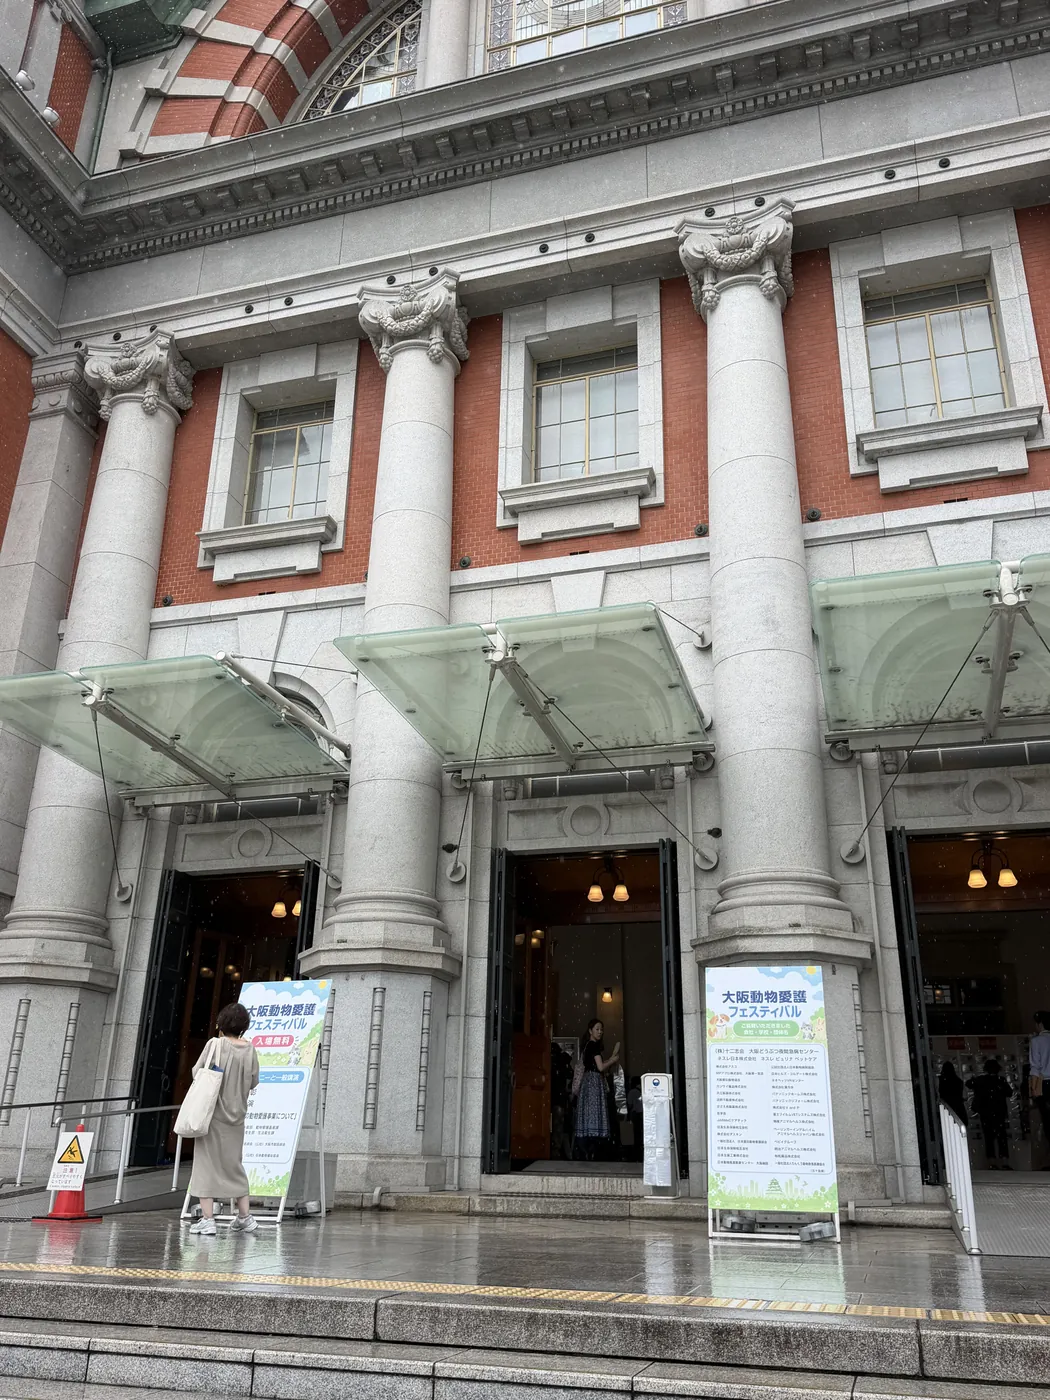
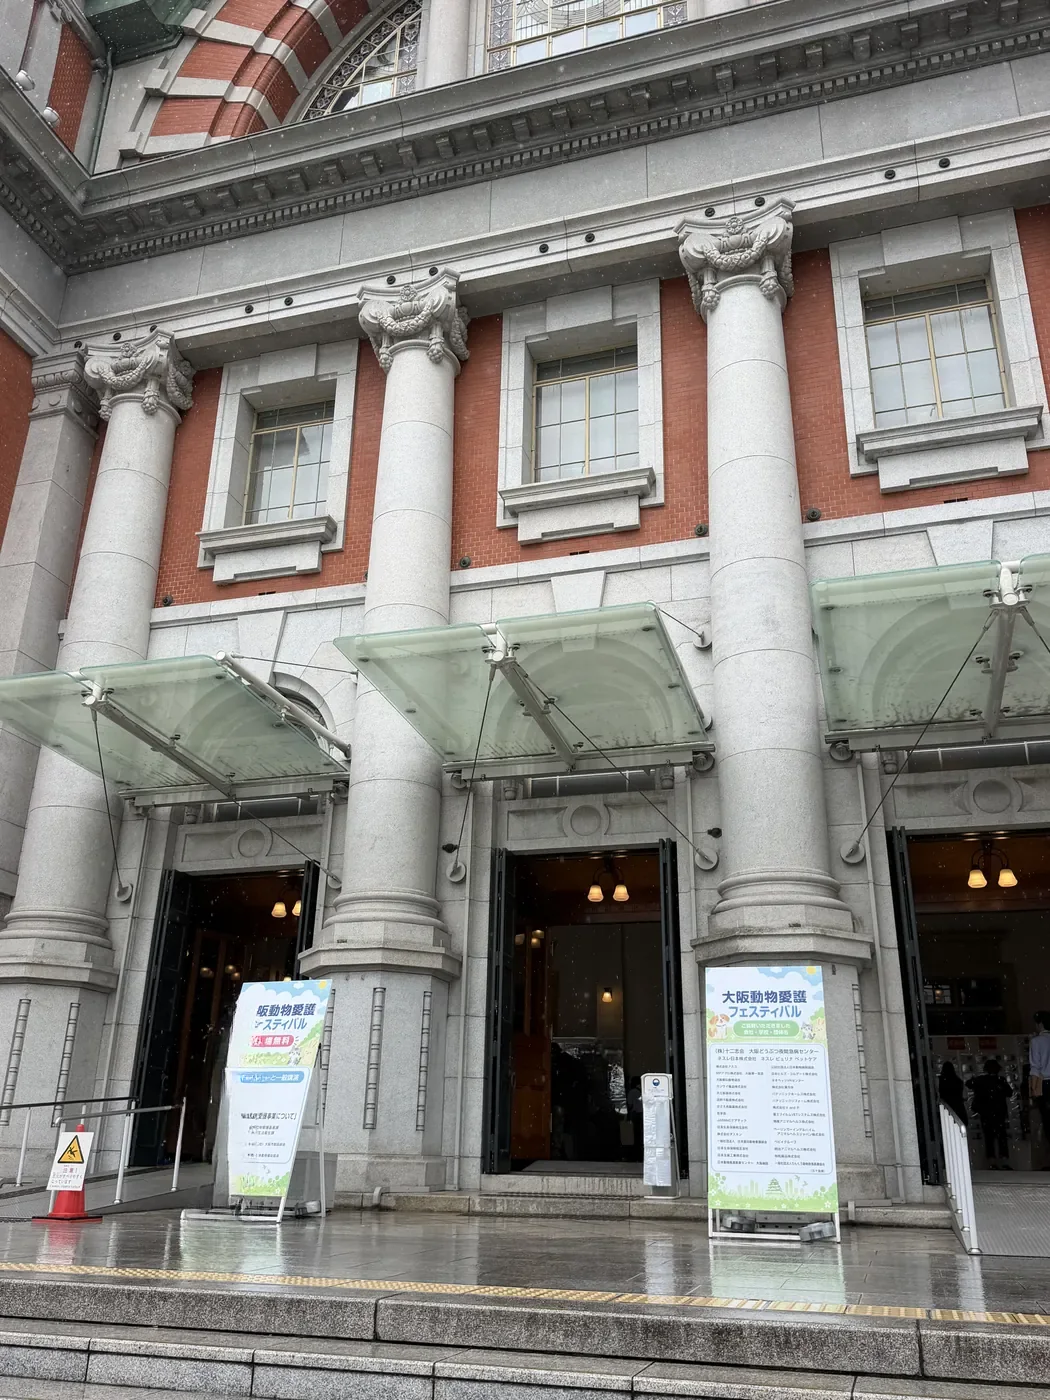
ロックス君：大阪市中央公会堂の写真から写り込んだ女性2人を消去（背景を補完）、吹き出しのメッセージを会場の「長寿動物表彰の基準」の写真に差し替え、rox.css を v=20260929a に更新
Claude-Session: https://claude.ai/code/session_01LhFHrB9qHNScZfbHDDCHGh

Changed region(s): [[0.1524, 0.7064, 0.2743, 0.9214], [0.5486, 0.7371, 0.6095, 0.8293]]

diff --git a/rox.html b/rox.html
@@ -13,7 +13,7 @@
   <link rel="preconnect" href="https://fonts.gstatic.com" crossorigin>
   <link rel="stylesheet" href="https://fonts.googleapis.com/css2?family=M+PLUS+Rounded+1c:wght@700;800&display=swap">
   <link rel="stylesheet" href="assets/tsugu.css?v=20260927b">
-  <link rel="stylesheet" href="assets/rox.css?v=20260926g">
+  <link rel="stylesheet" href="assets/rox.css?v=20260929a">
   <script>document.documentElement.classList.add('nx-js');</script>
   <!-- Google tag (gtag.js) -->
   <script async src="https://www.googletagmanager.com/gtag/js?id=G-R0BG9XQGE4"></script>
@@ -66,7 +66,10 @@
               <button class="rox-shot" type="button" data-lightbox aria-label="写真を拡大"><img src="assets/media/rox/img_2631.webp?v=2" width="1800" height="1013" alt="会場のスクリーンに映された、鈴木ロックスちゃん17歳の紹介" decoding="async"></button>
               <figcaption><time datetime="2026-09-26">2026.9.26</time>会場のスクリーンで紹介していただきました</figcaption>
             </figure>
-            <p class="rox-msg rox-msg--up">私達に愛しさを教えてくれてありがとう。<br>いつもあなたを大切に思っています。<small>会場で映されたメッセージ</small></p>
+            <figure class="rox-card rox-kijun" style="--r:1.5deg;--tape:rgba(255,196,61,.6);--c:var(--pop3)">
+              <button class="rox-shot" type="button" data-lightbox aria-label="写真を拡大"><img src="assets/media/rox/choju-kijun-2026.webp" width="1050" height="1403" alt="大阪動物愛護フェスティバルの会場スクリーン「長寿動物表彰の基準について」：大型犬13歳以上、中・小型犬16歳以上、ネコ18歳以上" loading="lazy" decoding="async"></button>
+              <figcaption><time datetime="2026-09-26">2026.9.26</time>長寿動物表彰の基準（中・小型犬は16歳以上）</figcaption>
+            </figure>
             <figure class="rox-tv">
               <video controls playsinline preload="metadata" poster="assets/media/rox/rox-17th-poster.webp" width="1280" height="720">
                 <source src="assets/media/rox/rox-17th-2026.mp4" type="video/mp4">
@@ -77,7 +80,7 @@
           </div>
           <div class="rox-side">
             <figure class="rox-card" style="--r:2deg;--tape:rgba(47,191,184,.55);--c:var(--pop4)">
-              <button class="rox-shot" type="button" data-lightbox aria-label="写真を拡大"><img src="assets/media/rox/img_2619.webp" width="1050" height="1400" alt="大阪市中央公会堂の入口と大阪動物愛護フェスティバルの看板" loading="lazy" decoding="async"></button>
+              <button class="rox-shot" type="button" data-lightbox aria-label="写真を拡大"><img src="assets/media/rox/img_2619.webp?v=2" width="1050" height="1400" alt="大阪市中央公会堂の入口と大阪動物愛護フェスティバルの看板" loading="lazy" decoding="async"></button>
               <figcaption><time datetime="2026-09-26">2026.9.26</time>会場の大阪市中央公会堂</figcaption>
             </figure>
           </div>

diff --git a/assets/rox.css b/assets/rox.css
@@ -37,6 +37,7 @@
 /* ---------- 長寿のお祝い ---------- */
 .nx .rox-choju { display: grid; grid-template-columns: minmax(0, 1.62fr) minmax(0, .5fr); gap: 24px; align-items: start; }
 .nx .rox-maincol { display: grid; gap: 22px; }
+.nx .rox-kijun { justify-self: center; width: min(100%, 420px); margin-bottom: 0; }
 .nx .rox-msg--up { margin-top: 6px; text-align: center; font-size: clamp(1rem, .9rem + .5vw, 1.2rem); }
 .nx .rox-msg.rox-msg--up::after { top: -12px; bottom: auto; left: 50%; margin-left: -12px; border: 12px solid transparent; border-bottom-color: #fff7d6; border-top: 0; }
 .nx .rox-main figcaption { font-size: 1rem; }

diff --git a/_rox_src/index.html b/_rox_src/index.html
@@ -14,7 +14,7 @@
   <link rel="preconnect" href="https://fonts.gstatic.com" crossorigin>
   <link rel="stylesheet" href="https://fonts.googleapis.com/css2?family=M+PLUS+Rounded+1c:wght@700;800&display=swap">
   <link rel="stylesheet" href="../assets/tsugu.css?v=20260927b">
-  <link rel="stylesheet" href="../assets/rox.css?v=20260926g">
+  <link rel="stylesheet" href="../assets/rox.css?v=20260929a">
   <script>document.documentElement.classList.add('nx-js');</script>
 </head>
 
